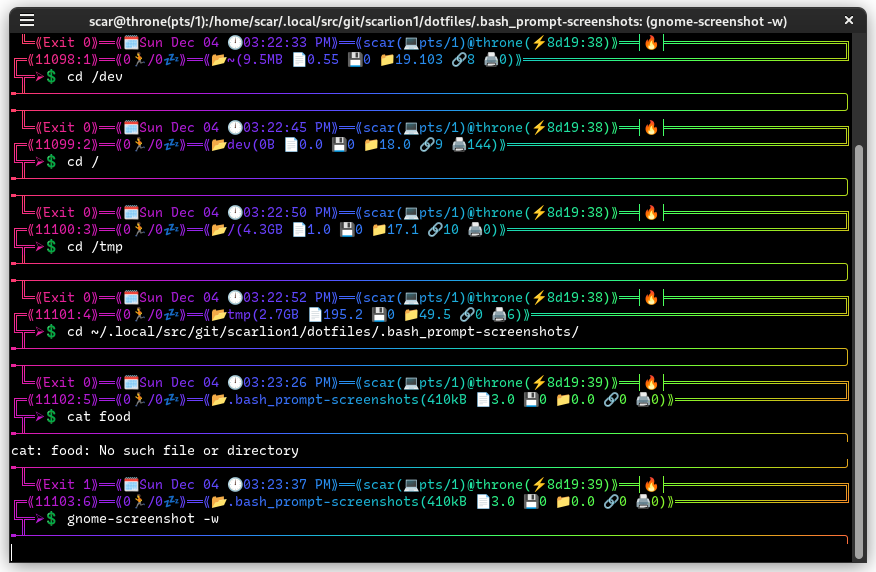
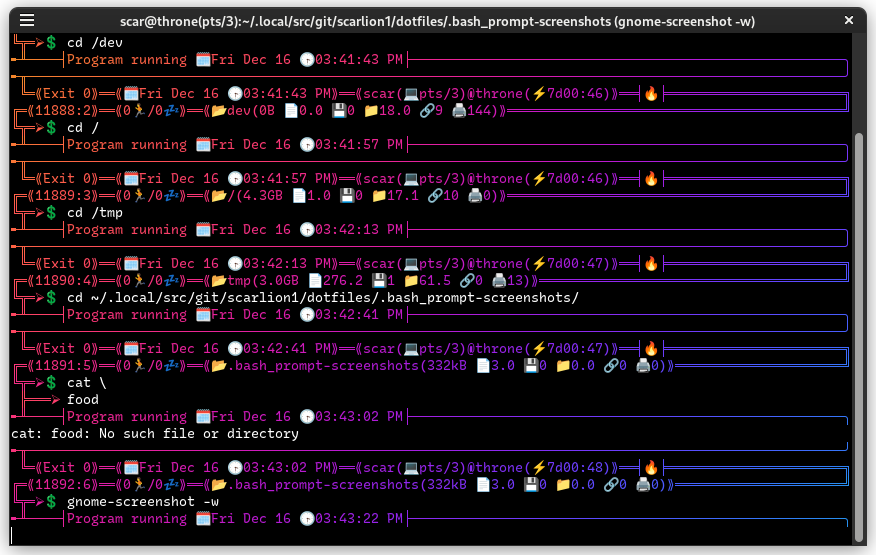
optimize/reduce some code, change some if-then-else to case, added matching PS2, added 24 clock emoji with logic, for displaying next to timestamps, change "grep" to "\grep" since mine had been aliased, added trap to update the titlebars of emulators with the currently-running command, added date an

Changed region(s): [[0.0, 0.0, 0.9863, 0.9495]]

diff --git a/README.md b/README.md
@@ -11,36 +11,42 @@ This comment in the default `.bashrc` has always bothered me
 > *off by default to not distract the user: the focus in a terminal window*
 > *should be on the output of commands, not on the prompt*
 
-Should it now?  Actually, even the most basic color helps me find where a command started, thus finding the output faster!  Silly hooman, I think you can take that comment and shove it! 😛
+Should it now?  Actually, even the most basic color helps me find where a command started, thus finding the output faster!  Silly hooman, I think you can take that comment and shove it! 😛
 
-This is my ridiculous and over-the-top, yet still beautiful, Bash shell prompt.  I started out with Kevin's *rainbow-bash-prompt*[^1] 'and kept "improving" it.  It's fully rainbow in 24-bit color, using jaseg's *lolcat*[^2], each prompt gradually moving across the color spectrum.  It features UTF-8 characters and emoji, because it's nearly 2023 so why not.  I'm from the 90's though, so had to throwback to some box drawing characters.  I'm actually surprised it hasn't turned into a hot mess; everything displays quite nicely in *Gnome Terminal*.  I added fallback options too for when not in a graphical environment.
+This is my ridiculous and over-the-top, yet still beautiful, Bash shell prompt.  I started out with Kevin's *rainbow-bash-prompt*[^1] 'and kept "improving" it.  It's fully rainbow in 24-bit color, using jaseg's *lolcat*[^2], each prompt gradually moving across the color spectrum.  It features UTF-8 characters and emoji, because it's nearly 2023 so why not.  I'm from the 90's though, so had to throwback to some box drawing characters.  I'm actually surprised it hasn't turned into a hot mess; everything displays quite nicely in *Gnome Terminal*.  I added fallback options too for when not in a graphical environment.
 
-The first line shows the exit status/code of the last command, date and time of completion of last command, current user, user's tty, short hostname, and the system's uptime.  It also features an eternal flame to make sure things keep running.
+The first line shows the exit status/code of the last command, date and time of completion of last command, current user, user's tty, short hostname, and the system's uptime.  It also features an eternal flame to make sure things keep running.
 
 The second line shows the length of your command history, the command number for the current session, running jobs, sleeping jobs, current directory, and stats about the directory's contents: size of the data in this directory (not including subdirectories), number of regular and hidden files, number of programs/executables, number of directories and hidden directories, number of links (visible plus hidden), and number of special files (block devices, character devices, pipes, and sockets)).
 
 Finally, the third line is where you can actually enter your command!
 
-Everything is rounded off with fourth and fifth lines, giving the illusion of the prompt dropping the output of your command, only to gather it back up into the next prompt.  And in case your command doesn't have any output, the lines will connect nicely together to make sure everything continues.
+Everything is rounded off with a fourth line (technically PS0) and fifth line, giving the illusion of the prompt dropping the output of your command, only to gather it back up into the next prompt.  The fourth line now features a date and time stamp of when you executed your command.  In case your command doesn't have any output, the lines will connect nicely together to make sure everything continues.
+
+I also added a matching PS2 for those long multi-line commands, as well as a pre-command to show the currently-running command in the titlebar/tab of the terminal emulator.
+
+Did you know there are more than twenty-four different clock emojis?  Yes!  One for each hour 1-12 and one for each half-hour in between, plus some miscellaneous.  Therefore, if the time is, say, between 3 and 3:29, then the prompt will show the 3 o'clock emoji next to the time stamp.  Instead, if the time is between 3:30 and 3:59, as in the screenshots, then the prompt will show the 3:30 o'clock emoji next to the time stamp! and so on…
+
+### Screenshots
 
 | ![Screenshot of main prompt in Gnome Terminal](.bash_prompt-screenshots/ExampleMain-GnomeTerminal.png?raw=true "Main prompt in Gnome Terminal") |
 | - |
-| Main prompt in Gnome Terminal |
+| Main prompt in Gnome Terminal features 24-bit color with colored emojis |
 
 | ![Screenshot of main prompt in Terminology](.bash_prompt-screenshots/ExampleMain-Terminology.png?raw=true "Main prompt in Terminology") |
 | - |
-| Main prompt in Terminology |
+| Main prompt in Terminology features 8-bit color with plain emojis |
 
 | ![Screenshot of fallback prompt in Debian Console](.bash_prompt-screenshots/Example-DebianConsole.png?raw=true "Fallback prompt in Debian Console") |
 | - |
-| Fallback prompt in Debian Console |
+| Fallback prompt in Debian Console features 4-bit color and no emojis 😢 |
 
 
-The most difficult part by far was figuring out how to pad the right ends of the first two lines so they remained connected, but I got it!  They will adapt to differing lengths of data displayed in the prompt as well as resizes of the terminal.  It's quite hacked together, with different snippets and ideas found over the Internet!  With the color/UTF-8 version, I had to manually offset the calculated padding for each line by a certain amount.  I think it has something to do with the Spiral Calendar (first on line 1) and Printer (last on line 2), since I had to add some spaces after those so the following text wasn't covered by the icon.  Either way, the implementation is quite consistent.  One problem I've seen so far is when the session command number increases from 9 to 10 (and 99 to 100, etc.).  Another problem occurs if you descend into a directory with a really long name, forcing the second line to wrap.  Fortunately, these issues are quickly resolved by entering the next command or resizing your terminal (and entering the next command), respectively.
+The most difficult part by far was figuring out how to pad the right ends of the first two lines so they remained connected, but I got it!  It turned out to be pretty simple once I found the secret bash code to use.  They will adapt to differing lengths of data displayed in the prompt as well as resizes of the terminal.  Oh, and when to use single or double quotes, that can get confusing.  It's quite hacked together! with different snippets and ideas found over the Internet.  Either way, the implementation is quite consistent.  One problem I've seen so far is when the session command number increases from 9 to 10 (and 99 to 100, etc.), as you can see in the Terminology screenshot.  Another problem occurs if you descend into a directory with a really long name, forcing the second line to wrap.  Fortunately, these issues are quickly resolved by entering the next command or resizing your terminal (and entering the next command), respectively.
 
-This's my first time sharing something on github, so I'll probably now want to add repository status & info to the prompt somehow...
+This's my first time sharing something on github, so I'll probably now want to add repository status & info to the prompt somehow…
 
-Anyway, happy to hear about your suggestions and improvements!  Happy hacking 😁
+Anyway, happy to hear about your suggestions and improvements!  Happy hacking 😁
 
 ### Installation
 
